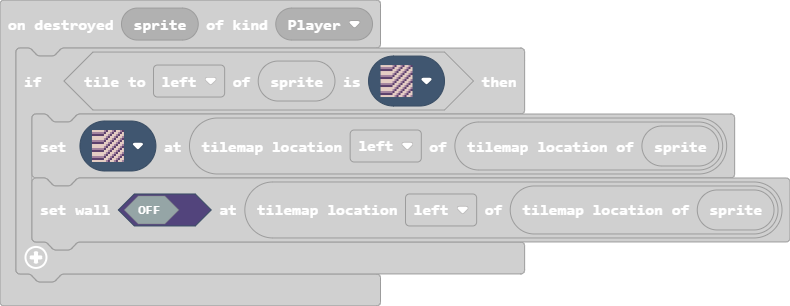
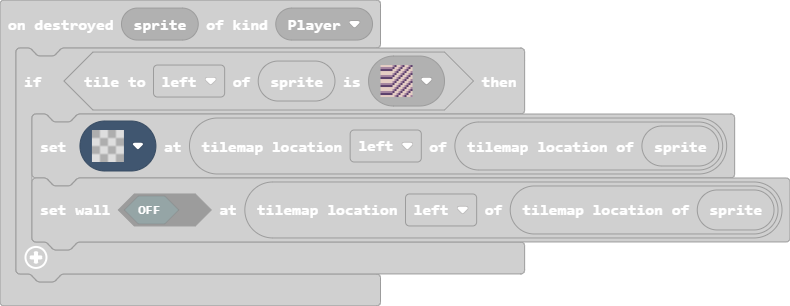
Update main.blocks, main.ts, tilemap.g.jres, tilemap.g.ts

Changed region(s): [[0.4557, 0.1765, 0.5772, 0.3529], [0.1519, 0.6176, 0.2734, 0.7647], [0.0911, 0.4118, 0.1823, 0.5294]]

diff --git a/tilemap.g.ts b/tilemap.g.ts
@@ -4,12 +4,39 @@ namespace myTiles {
     export const transparency16 = image.ofBuffer(hex``);
     //% fixedInstance jres blockIdentity=images._tile
     export const tile1 = image.ofBuffer(hex``);
+    //% fixedInstance jres blockIdentity=images._tile
+    export const transparency8 = image.ofBuffer(hex``);
+
+    helpers._registerFactory("tilemap", function(name: string) {
+        switch(helpers.stringTrim(name)) {
+            case "level1":
[1 lines of base64/hex data omitted]
+. . . . . . . . . . . . . . . . . . . . 
+. . . . . . . . . . . . . . . . . . . . 
+. . . . . . . . . . . . . . . . . . . . 
+. . . . . . . . . . . . . . . . . . . . 
+. . . . . . . . . . . . . . . . . . . . 
+. . . . . . . . . . . . . . . . . . . . 
+. . . . . . . . . . . . . . . . . . . . 
+. . . . . . . . . . . . . . . . . . . . 
+. . . . . . . . . . . . . . . . . . . . 
+. . . . . . . . . . . . . . . . . . . . 
+. . . . . . . . . . . . . . . . . . . . 
+. . . . . . . . . . . . . . . . . . . . 
+. . . . . . . . . . . . . . . . . . . . 
+. . . . . . . . . . . . . . . . . . . . 
+. . . . . . . . . . . . . . . . . . . . 
+`, [myTiles.transparency8], TileScale.Eight);
+        }
+        return null;
+    })
 
     helpers._registerFactory("tile", function(name: string) {
         switch(helpers.stringTrim(name)) {
             case "transparency16":return transparency16;
             case "myTile":
             case "tile1":return tile1;
+            case "transparency8":return transparency8;
         }
         return null;
     })

diff --git a/main.ts b/main.ts
@@ -1,6 +1,6 @@
 sprites.onDestroyed(SpriteKind.Player, function (sprite) {
     if (sprite.tileKindAt(TileDirection.Left, assets.tile`myTile`)) {
-        tiles.setTileAt(sprite.tilemapLocation().getNeighboringLocation(CollisionDirection.Left), assets.tile`myTile`)
+        tiles.setTileAt(sprite.tilemapLocation().getNeighboringLocation(CollisionDirection.Left), assets.tile`transparency16`)
         tiles.setWallAt(sprite.tilemapLocation().getNeighboringLocation(CollisionDirection.Left), false)
     }
 })
